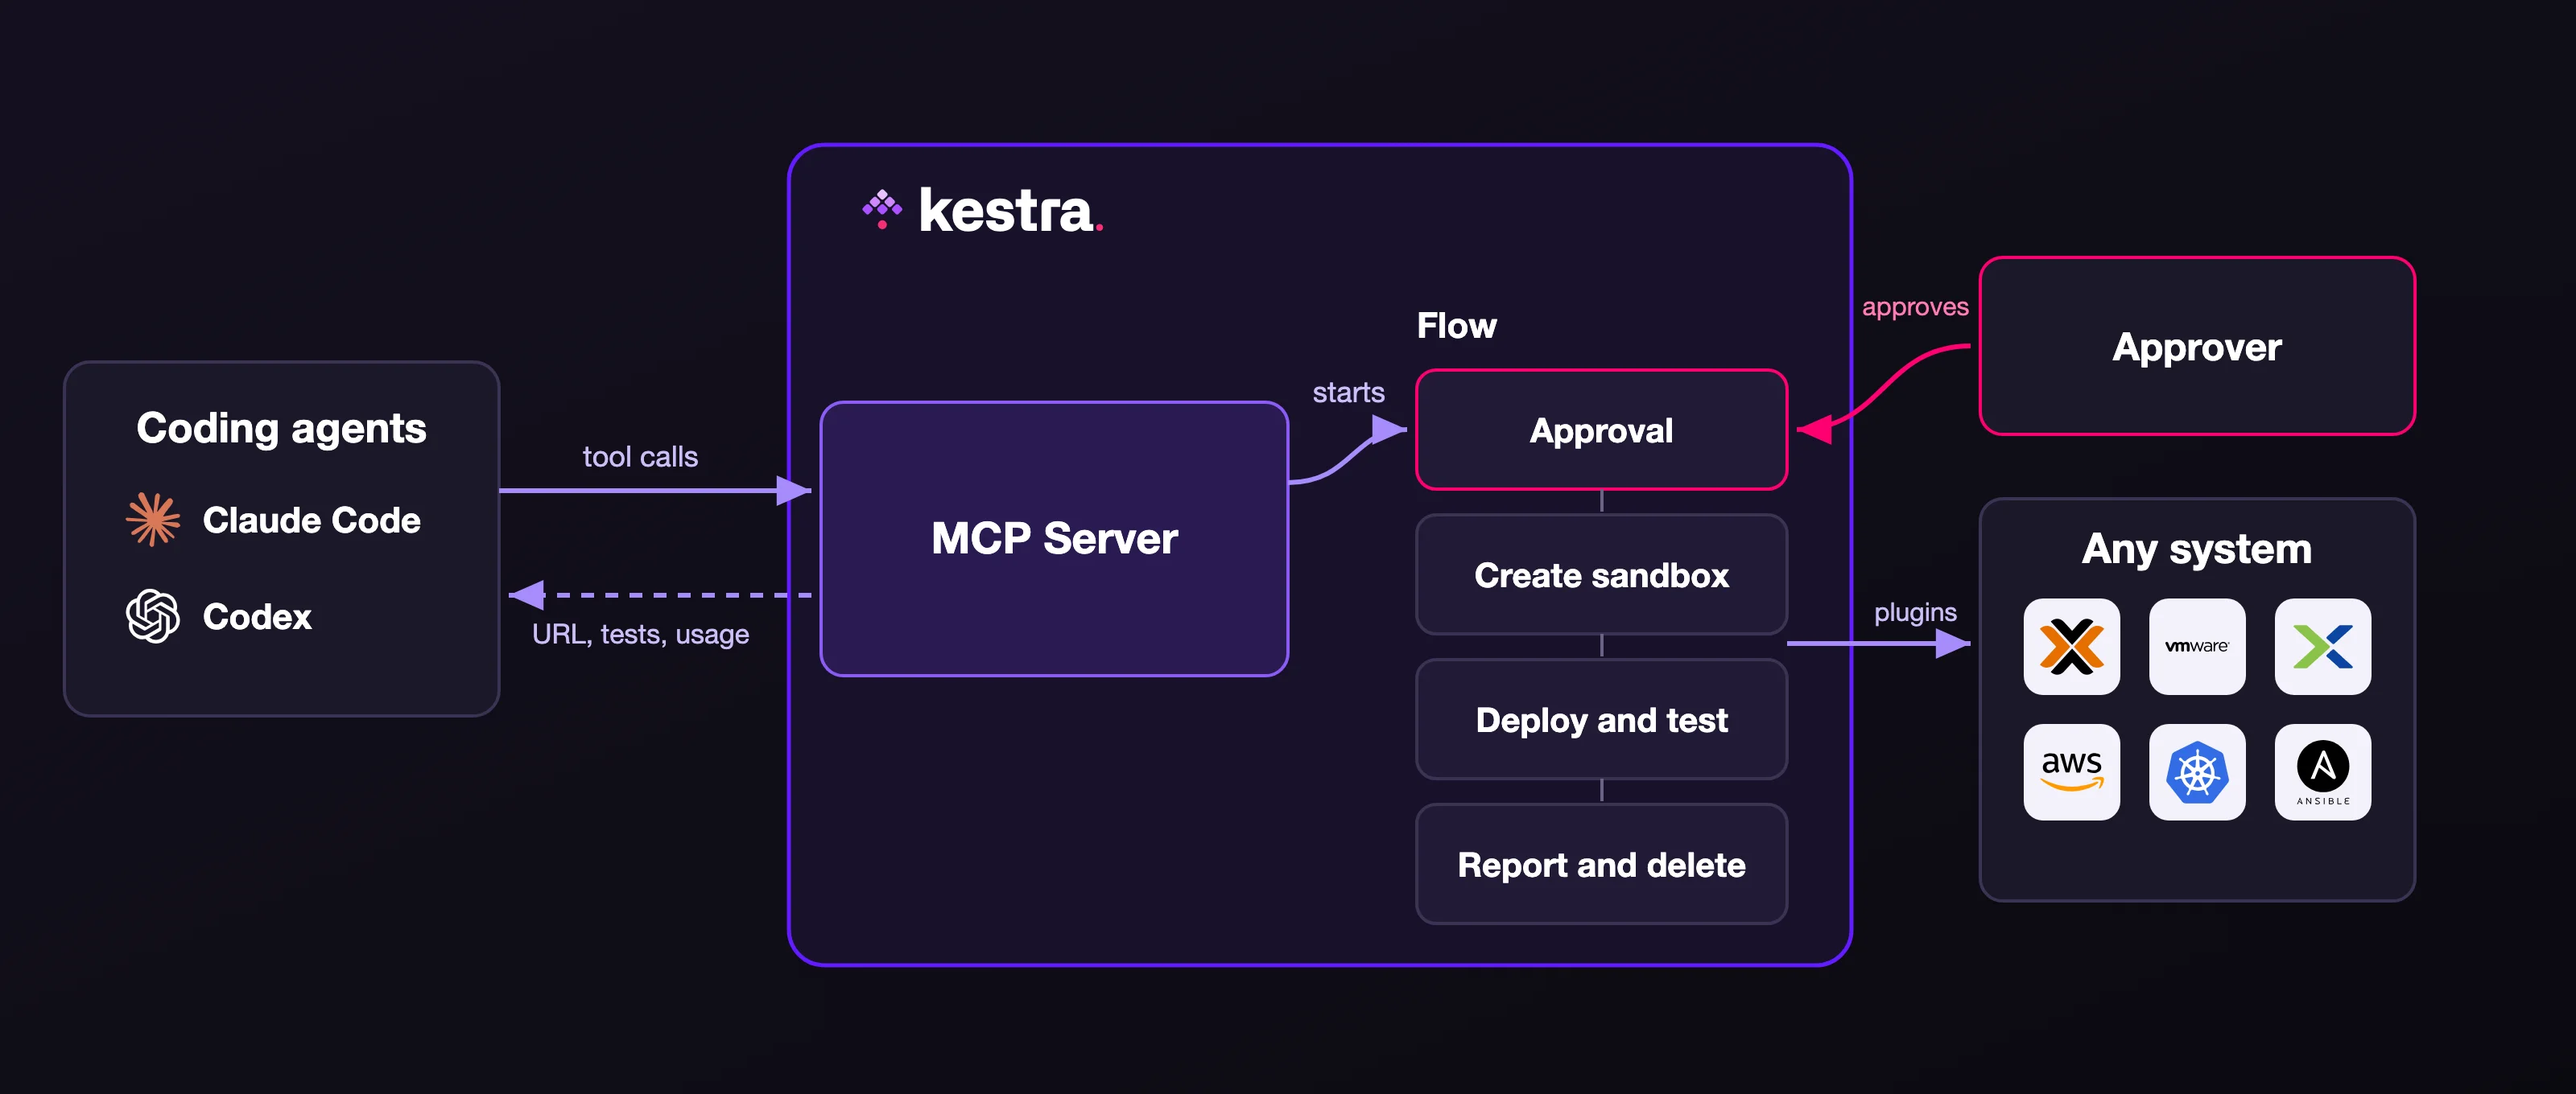
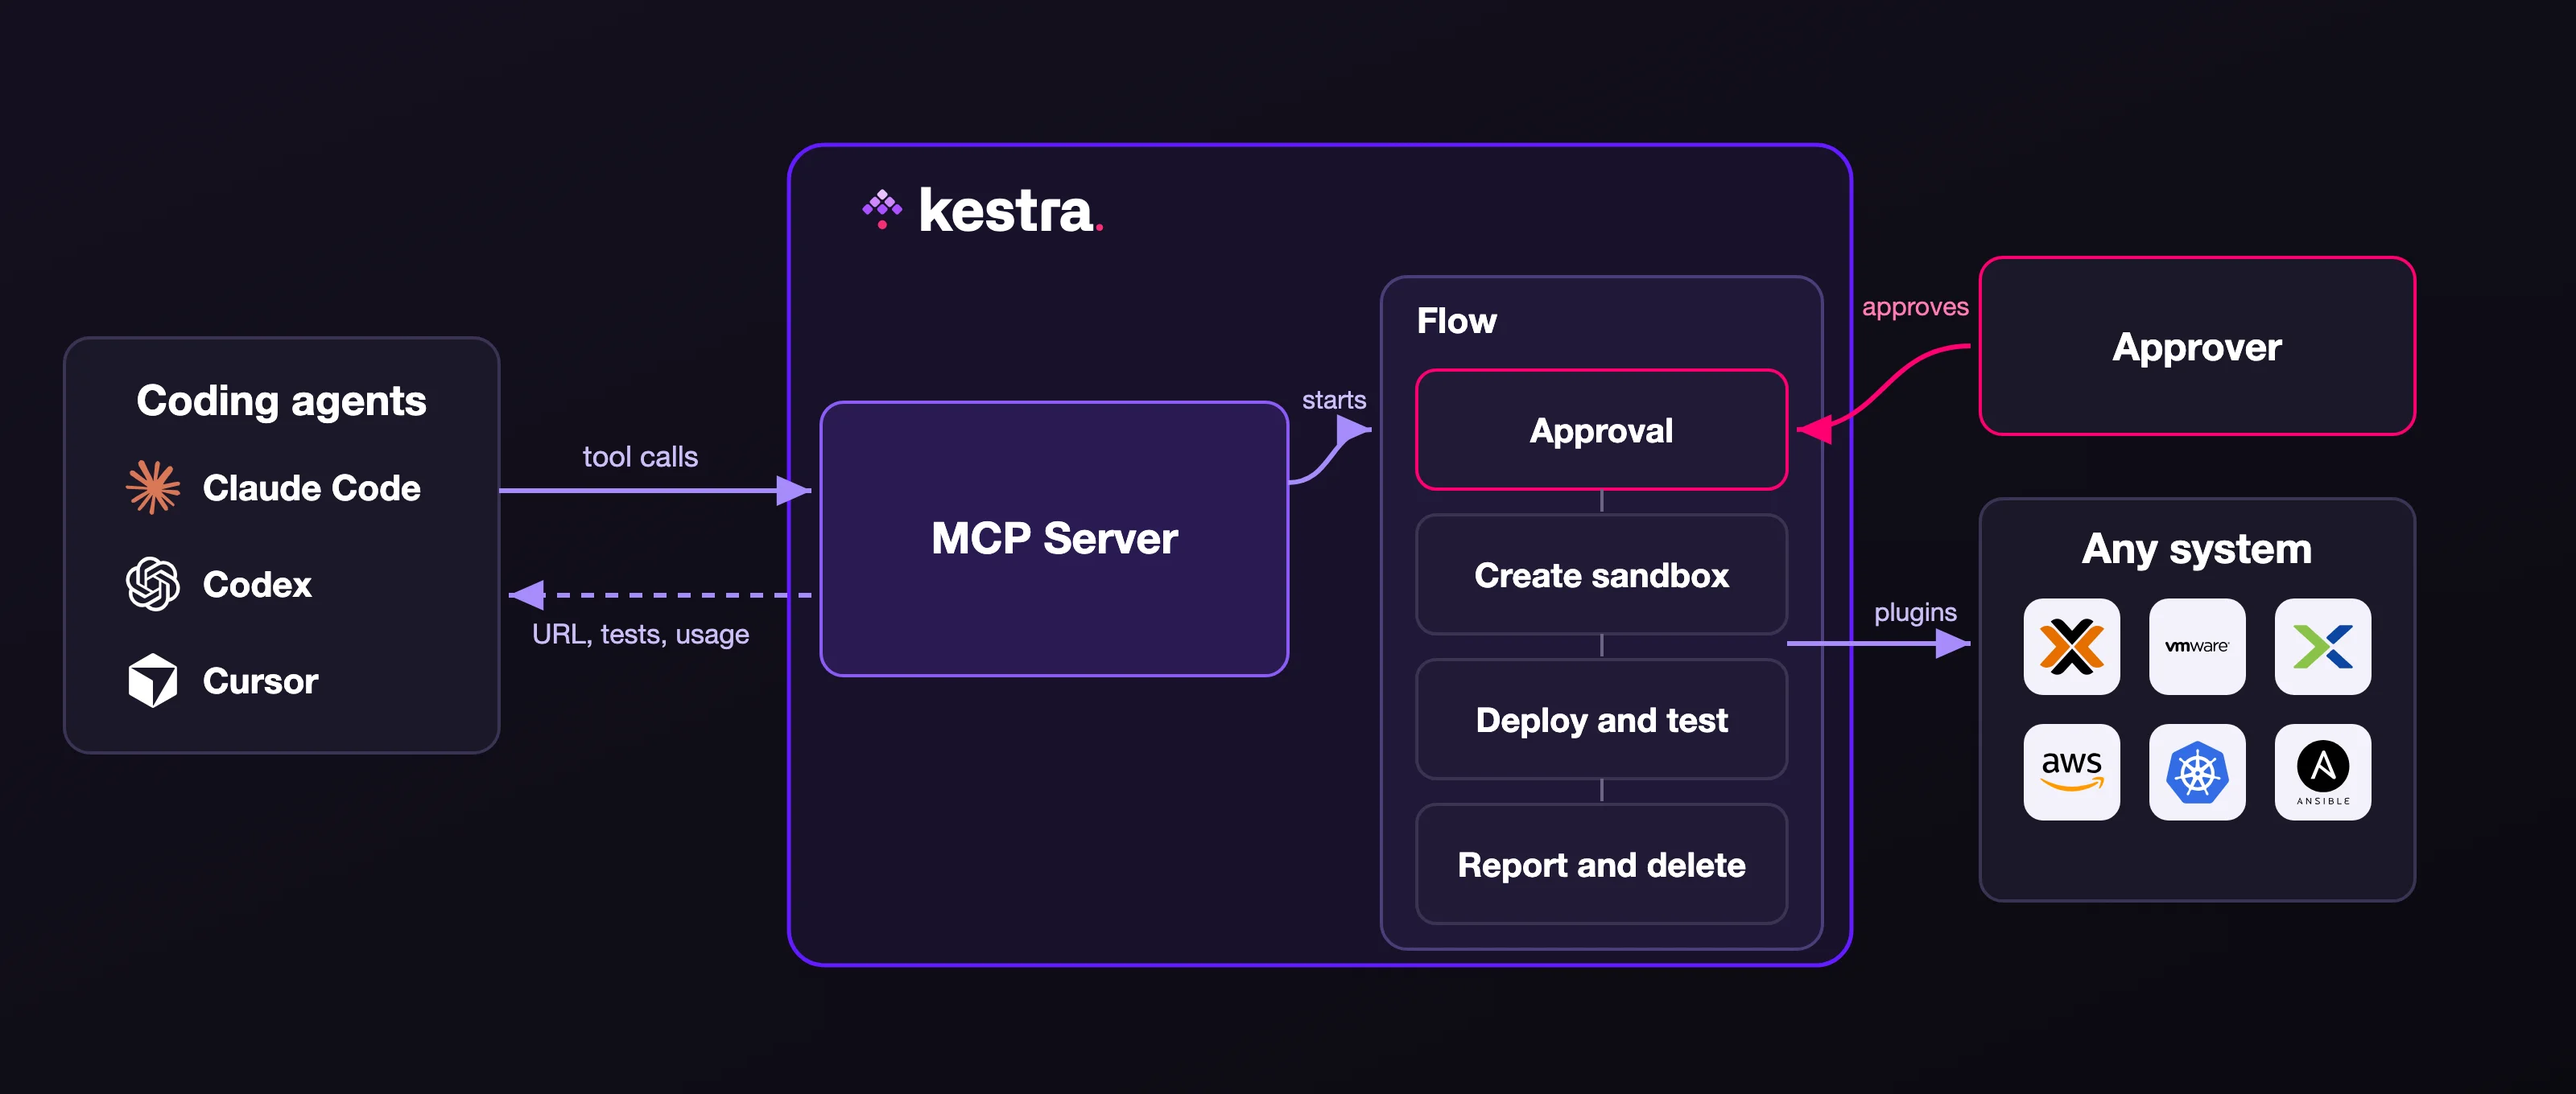
update

Changed region(s): [[0.0312, 0.3088, 0.1875, 0.6485], [0.5, 0.3397, 0.5625, 0.4324], [0.5312, 0.2471, 0.5938, 0.3088]]

diff --git a/src/contents/blogs/mcp-server-infrastructure-sandbox/index.md b/src/contents/blogs/mcp-server-infrastructure-sandbox/index.md
@@ -14,18 +14,18 @@ Kestra has worked with AI agents since 2.0, when [MCP Flows](/blogs/2026-09-04-k
 
 This post covers what each feature does, then shows them in one run: Claude Code gets a Proxmox VE sandbox to test an app, a manager approves it in Slack, and the sandbox is deleted with a usage report. The flow is a [blueprint](/blueprints/proxmox-app-sandbox-with-approval) you can import.
 
-![Coding agents such as Claude Code or Codex send tool calls to the MCP Server inside Kestra, which starts a flow. The flow waits for an approver, creates a sandbox through Kestra plugins on any system, such as Proxmox, VMware, Nutanix, AWS, Kubernetes, or Ansible, deploys and tests the app, then reports and deletes it, and the URL, test results, and usage go back to Claude Code](./mcp-server-architecture.webp)
+![Coding agents such as Claude Code, Codex, or Cursor send tool calls to the MCP Server inside Kestra, which starts a flow. The flow waits for an approver, creates a sandbox through Kestra plugins on any system, such as Proxmox, VMware, Nutanix, AWS, Kubernetes, or Ansible, deploys and tests the app, then reports and deletes it, and the URL, test results, and usage go back to Claude Code](./mcp-server-architecture.webp)
 
 ## What the Kestra MCP Server gives an agent
 
-MCP Flows let an agent call the flows you chose to expose. The MCP Server goes further and exposes Kestra itself, with the same tools as the AI Copilot in the Kestra UI. From a chat, an agent can:
+MCP Flows let an agent call the flows you chose to expose. The MCP Server goes further and exposes Kestra itself. From a chat, an agent can:
 
 - read and edit flows, and draft a new flow for you to review before anything is saved
 - start, restart, replay, pause, resume, or kill executions
 - read execution details, outputs, and logs, and search logs across executions
 - manage namespace files and KV entries
 
-In the Enterprise Edition, agents can also work with apps, test suites, groups, and announcement banners, for 78 tools in all. The AI Copilot uses the same tools from inside Kestra, and in its Edit and Plan modes it asks you to confirm before it changes anything.
+In the Enterprise Edition, agents can also work with apps, test suites, and user groups, for 78 tools in all.
 
 The tools carry hints that tell the client whether a call only reads, makes changes, or deletes or starts something, so your client can ask before acting. The server is off until you turn it on, every request is authenticated, and you can limit it to some tenants and choose the sign-in methods it accepts, OAuth included.
 
